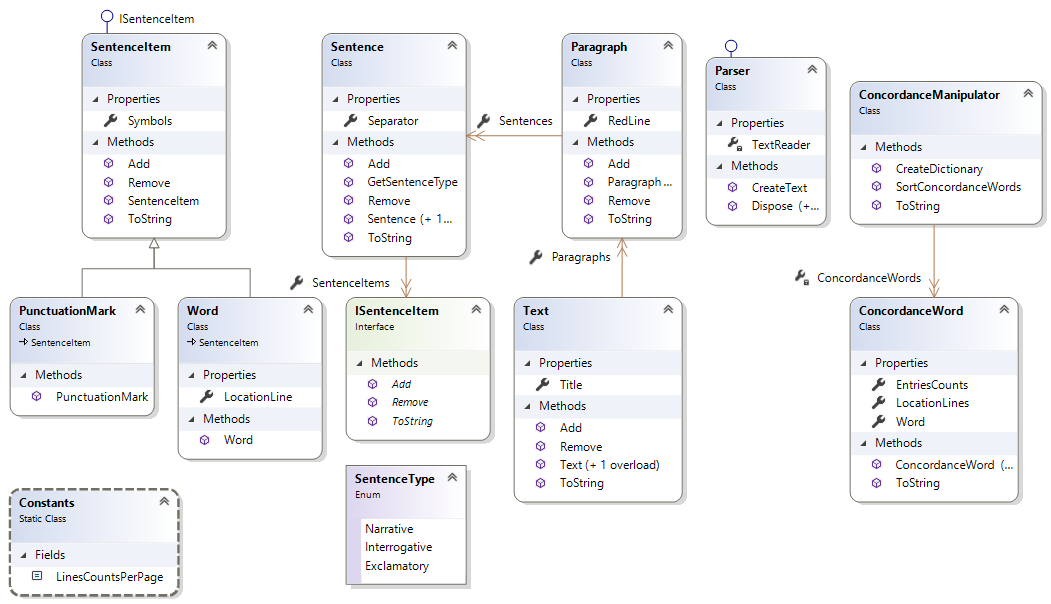
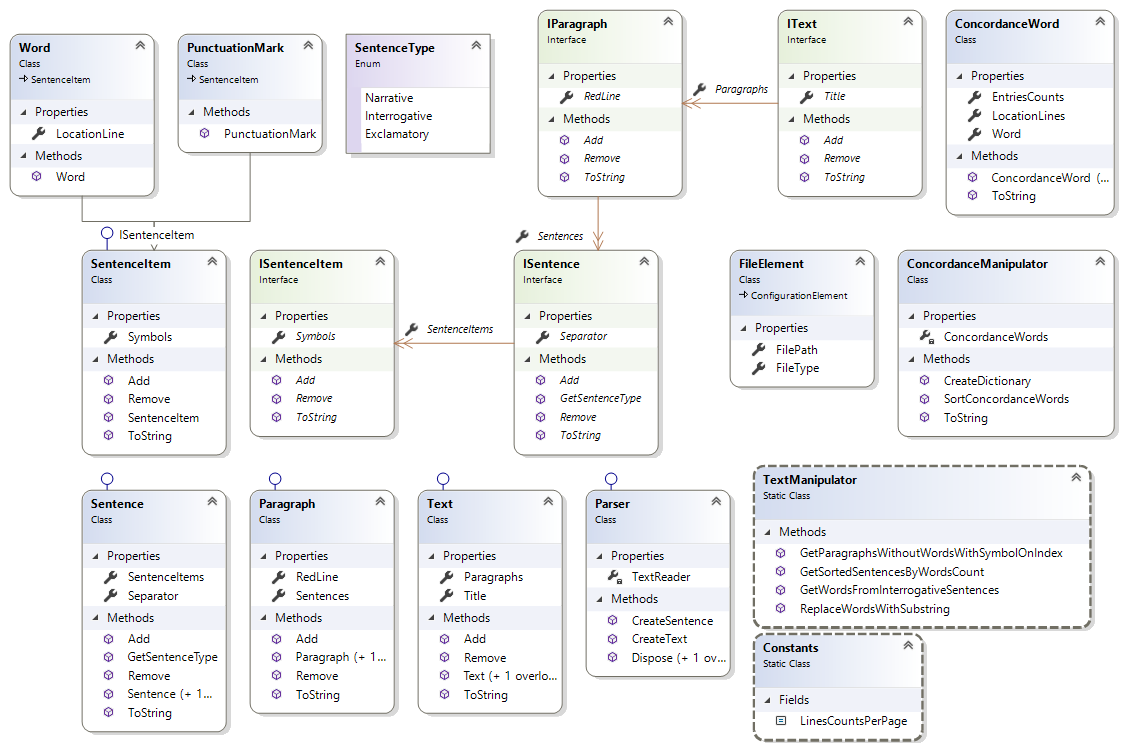
feat: class for working with text

Changed region(s): [[0.0, 0.0, 1.0, 1.0]]

diff --git a/TextProcessing/TextProcessingLibrary/TextManipulator.cs b/TextProcessing/TextProcessingLibrary/TextManipulator.cs
@@ -1,0 +1,61 @@
+namespace TextProcessingLibrary
+{
+    using System.Collections.Generic;
+    using System.IO;
+    using System.Linq;
+    using System.Text;
+
+    using TextProcessingLibrary.Parsers;
+    using TextProcessingLibrary.TextItems;
+    using TextProcessingLibrary.TextItems.SentenceItems;
+
+    public static class TextManipulator
+    {
+        public static IEnumerable<ISentence> GetSortedSentencesByWordsCount(IText text)
+        {
+            return from paragraph in text.Paragraphs
+                   from sentence in paragraph.Sentences
+                   orderby sentence.SentenceItems.Count
+                   select sentence;
+        }
+
+        public static IEnumerable<ISentenceItem> GetWordsFromInterrogativeSentences(IText text, int wordLength)
+        {
+            var result = from paragraph in text.Paragraphs
+                         from sentence in paragraph.Sentences
+                         where sentence.GetSentenceType() == SentenceType.Interrogative
+                         from word in sentence.SentenceItems
+                         where word.Symbols.Count == wordLength
+                         select word;
+
+            return result.Distinct();
+        }
+
+        public static IEnumerable<IParagraph> GetParagraphsWithoutWordsWithSymbolOnIndex(IText text, int wordLength, int index, char symbol)
+        {
+            return from paragraph in text.Paragraphs
+                   from sentence in paragraph.Sentences
+                   from word in sentence.SentenceItems 
+                   where word.Symbols.Count == wordLength && word.Symbols[index] != symbol
+                   select paragraph;
+        }
+
+        public static ISentence ReplaceWordsWithSubstring(ISentence sentence, int wordLength, string substring)
+        {
+            var stringBuilder = new StringBuilder();
+            foreach (var sentenceItem in sentence.SentenceItems)
+            {
+                if (sentenceItem.Symbols.Count != wordLength)
+                {
+                    stringBuilder.Append(sentenceItem.Symbols.ToString());
+                    continue;
+                }
+
+                stringBuilder.Append(substring);
+            }
+
+            var parser = new Parser();
+            return parser.CreateSentence(stringBuilder.ToString(), 1);
+        }
+    }
+}

diff --git a/TextProcessing/TextProcessingLibrary/Configuration/FileElement.cs b/TextProcessing/TextProcessingLibrary/Configuration/FileElement.cs
@@ -1,0 +1,21 @@
+namespace TextProcessingLibrary.Configuration
+{
+    using System.Configuration;
+
+    public class FileElement : ConfigurationElement
+    {
+        [ConfigurationProperty("fileType", DefaultValue = "", IsKey = true, IsRequired = true)]
+        public string FileType
+        {
+            get => (string)base["fileType"];
+            set => base["fileType"] = value;
+        }
+
+        [ConfigurationProperty("filePath", DefaultValue = "", IsKey = false, IsRequired = false)]
+        public string FilePath
+        {
+            get => (string)base["filePath"];
+            set => base["filePath"] = value;
+        }
+    }
+}
